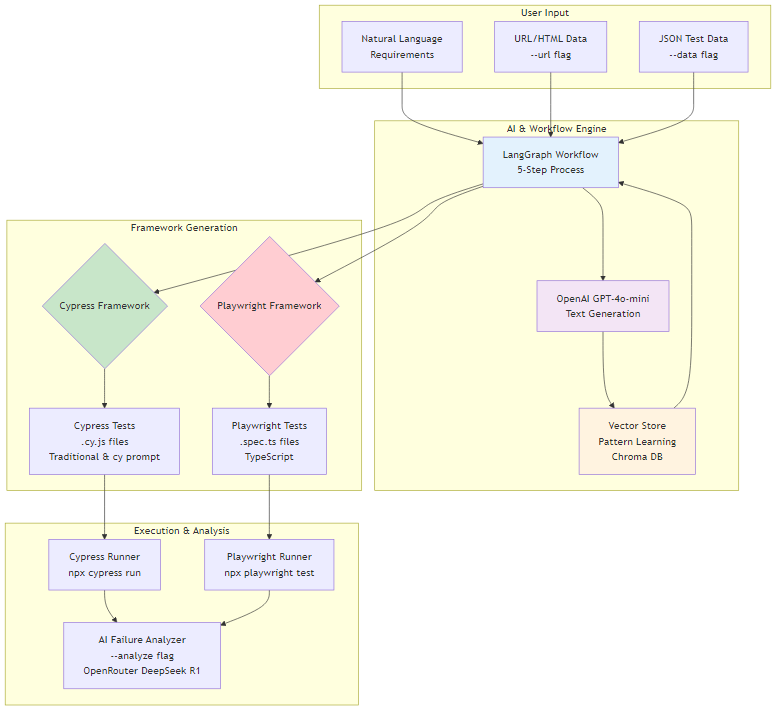
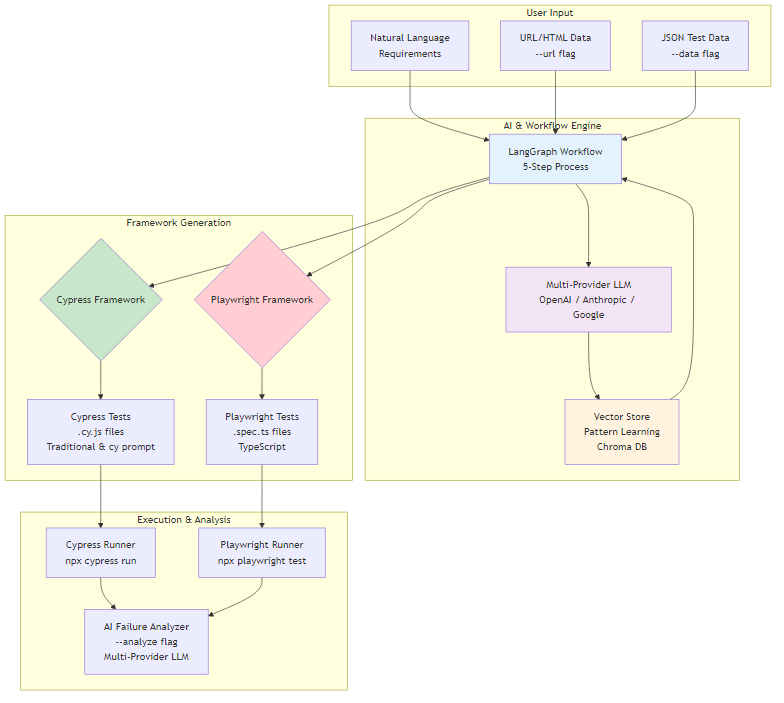
add multi-provider LLM support (OpenAI, Anthropic, Google) and update README and renovate

diff --git a/qa_automation.py b/qa_automation.py
@@ -22,6 +22,16 @@ from langchain_chroma import Chroma
 from langchain_core.documents import Document
 from dotenv import load_dotenv
 
+try:
+    from langchain_anthropic import ChatAnthropic
+except ImportError:
+    ChatAnthropic = None
+
+try:
+    from langchain_google_genai import ChatGoogleGenerativeAI
+except ImportError:
+    ChatGoogleGenerativeAI = None
+
 load_dotenv()
 
 logging.basicConfig(
@@ -33,7 +43,51 @@ logger = logging.getLogger(__name__)
 PROMPT_DIR = Path(__file__).parent / "prompts"
 VECTOR_DB_DIR = Path(__file__).parent / "vector_db"
 
-# ── FRAMEWORK CONFIG ─────────────────────────────────────────────────────
+LLM_CONFIG = {
+    "openai": {
+        "name": "OpenAI (ChatGPT)",
+        "model": "gpt-4o-mini",
+        "provider": "openai",
+    },
+    "anthropic": {
+        "name": "Anthropic (Claude)",
+        "model": "claude-3-5-sonnet-20241022",
+        "provider": "anthropic",
+    },
+    "google": {
+        "name": "Google (Gemini)",
+        "model": "gemini-2.0-flash",
+        "provider": "google",
+    },
+}
+
+DEFAULT_LLM = "openai"
+
+def get_llm(provider: str = DEFAULT_LLM):
+    """Get LLM instance for the specified provider"""
+    if provider not in LLM_CONFIG:
+        logger.warning(f"Unknown provider '{provider}', using default {DEFAULT_LLM}")
+        provider = DEFAULT_LLM
+    
+    config = LLM_CONFIG[provider]
+    
+    if provider == "openai":
+        return ChatOpenAI(model=config["model"], temperature=0)
+    
+    elif provider == "anthropic":
+        if ChatAnthropic is None:
+            logger.warning("Anthropic provider not installed, falling back to OpenAI")
+            return ChatOpenAI(model=LLM_CONFIG[DEFAULT_LLM]["model"], temperature=0)
+        return ChatAnthropic(model=config["model"], temperature=0)
+    
+    elif provider == "google":
+        if ChatGoogleGenerativeAI is None:
+            logger.warning("Google provider not installed, falling back to OpenAI")
+            return ChatOpenAI(model=LLM_CONFIG[DEFAULT_LLM]["model"], temperature=0)
+        return ChatGoogleGenerativeAI(model=config["model"], temperature=0)
+    
+    return ChatOpenAI(model=LLM_CONFIG[DEFAULT_LLM]["model"], temperature=0)
+
 
 FRAMEWORK_CONFIG = {
     "cypress": {
@@ -139,6 +193,7 @@ class TestState:
     framework: str = "cypress"
     url: Optional[str] = None
     run_tests: bool = False
+    llm_provider: str = DEFAULT_LLM
     
     # Processing data
     test_data: Optional[Dict] = None
@@ -191,6 +246,7 @@ def step_2_fetch_test_data(state):
         return state
     
     logger.info(f"Fetching URL: {url}")
+    logger.info(f"Using LLM provider: {LLM_CONFIG[state.llm_provider]['name']}")
     
     # Fetch HTML from URL
     response = requests.get(url, timeout=15, headers={'User-Agent': 'Mozilla/5.0'})
@@ -201,7 +257,7 @@ def step_2_fetch_test_data(state):
     # Analyze HTML with AI
     logger.info("Asking AI to analyze HTML")
     
-    llm = ChatOpenAI(model="gpt-4o-mini", temperature=0)
+    llm = get_llm(state.llm_provider)
     prompt = load_prompt_file("html_analysis.txt", url=url, html=html)
     
     ai_response = llm.invoke(prompt)
@@ -260,6 +316,7 @@ def step_3_search_similar_patterns(state):
 def step_4_generate_tests(state):
     """Step 4: Generate test files"""
     logger.info("STEP 4: Generate Tests")
+    logger.info(f"Using LLM provider: {LLM_CONFIG[state.llm_provider]['name']}")
     
     # ── Get framework config ──
     fw = FRAMEWORK_CONFIG[state.framework]
@@ -273,7 +330,7 @@ def step_4_generate_tests(state):
             f"Generating standard {fw['name']} tests instead."
         )
     
-    llm = ChatOpenAI(model="gpt-4o-mini", temperature=0)
+    llm = get_llm(state.llm_provider)
     generated_tests = []
     
     # Generate each test
@@ -478,6 +535,7 @@ def generate_tests_action(args):
     """Generate tests using workflow"""
     logger.info("Starting test generation")
     logger.info(f"Framework: {args.framework.upper()}")
+    logger.info(f"LLM Provider: {LLM_CONFIG[args.llm]['name']}")
     
     # Create initial state
     state = TestState(
@@ -486,7 +544,8 @@ def generate_tests_action(args):
         use_prompt=args.use_prompt,
         framework=args.framework,
         url=args.url,
-        run_tests=args.run
+        run_tests=args.run,
+        llm_provider=args.llm
     )
     
     # Run workflow
@@ -528,6 +587,8 @@ def main():
     parser.add_argument('--list-patterns', action='store_true', help='List stored patterns')
     parser.add_argument('--framework', choices=['cypress', 'playwright'], default='cypress',
                         help='Target framework: cypress (default) or playwright')
+    parser.add_argument('--llm', choices=list(LLM_CONFIG.keys()), default=DEFAULT_LLM,
+                        help=f'LLM provider: {" or ".join(LLM_CONFIG.keys())} (default: {DEFAULT_LLM})')
     
     args = parser.parse_args()
     

diff --git a/README.md b/README.md
@@ -20,6 +20,14 @@ Supports local development and CI/CD pipelines.
 
 ---
 
+## New in v3.3 — Multi-Provider LLM Support
+
+- 🤖 **3 LLM Providers**: OpenAI (ChatGPT), Anthropic (Claude), Google (Gemini)
+- ⚡ **ChatGPT Default**: No flag needed, uses `gpt-4o-mini` by default
+- 🔄 **Graceful Fallback**: Missing providers automatically fall back to OpenAI
+- 🆕 **Simple CLI**: Just add `--llm openai|anthropic|google`
+- 📦 **Optional Packages**: Install only providers you need
+
 ## New in v3.2 — Docker Support
 
 - 🐳 **Docker Compose**: Single command to build and run — no local Python or Node.js needed
@@ -137,11 +145,12 @@ python qa_automation.py --analyze -f error.log
 - Semantic pattern matching
 - Natural language to test code
 - URL-based test generation
-- AI-powered failure diagnosis
+- AI-powered failure diagnosis with 3 LLM providers
 - Traditional and cy.prompt() modes (Cypress)
 - Playwright TypeScript test generation
 - Multi-framework support via `FRAMEWORK_CONFIG`
 - Pattern library management
+- **Multi-provider LLM support**: OpenAI, Anthropic, Google
 - Docker support for zero-install usage
 
 ---
@@ -228,16 +237,35 @@ Generated tests appear in the same output directories as local setup. Pattern le
 ## Environment Variables
 
 ```bash
+# Required (default provider)
 OPENAI_API_KEY=your_key
+
+# Optional (for Anthropic)
+ANTHROPIC_API_KEY=your_key
+
+# Optional (for Google)
+GOOGLE_API_KEY=your_key
 ```
 
 ---
 
 ## Commands
 
-### Basic Generation
+### Basic Generation (ChatGPT Default)
 ```bash
 python qa_automation.py "Test login" --url https://the-internet.herokuapp.com/login
+```
+
+### Multi-Provider LLM Support
+```bash
+# Use Claude (Anthropic)
+python qa_automation.py "Test login" --url https://the-internet.herokuapp.com/login --llm anthropic
+
+# Use Gemini (Google)
+python qa_automation.py "Test login" --url https://the-internet.herokuapp.com/login --llm google
+
+# View available providers
+python qa_automation.py --help
 ```
 
 ### cy.prompt() Mode
@@ -290,6 +318,7 @@ Returns: `CATEGORY: SELECTOR REASON: ... FIX: ...` (via OpenAI GPT-4o-mini)
 | `--out` | Output directory for generated specs | Framework default |
 | `--use-prompt` | Use cy.prompt() style (Cypress only) | `false` |
 | `--run` | Run tests after generation | `false` |
+| `--llm` | LLM provider: `openai`, `anthropic`, `google` | `openai` |
 | `--analyze`, `-a` | Analyze a test failure log | — |
 | `--file`, `-f` | Log file to analyze | — |
 | `--list-patterns` | List all stored patterns in vector store | — |
@@ -406,6 +435,7 @@ Then create `prompts/test_generation_selenium.txt`.
 
 ## Releases
 
+**v3.3** — Multi-provider LLM support (OpenAI, Anthropic, Google)  
 **v3.2** — Docker support, docker-compose setup  
 **v3.1** — Playwright support, multi-framework architecture  
 **v3.0** — LangGraph workflows, vector pattern learning  
